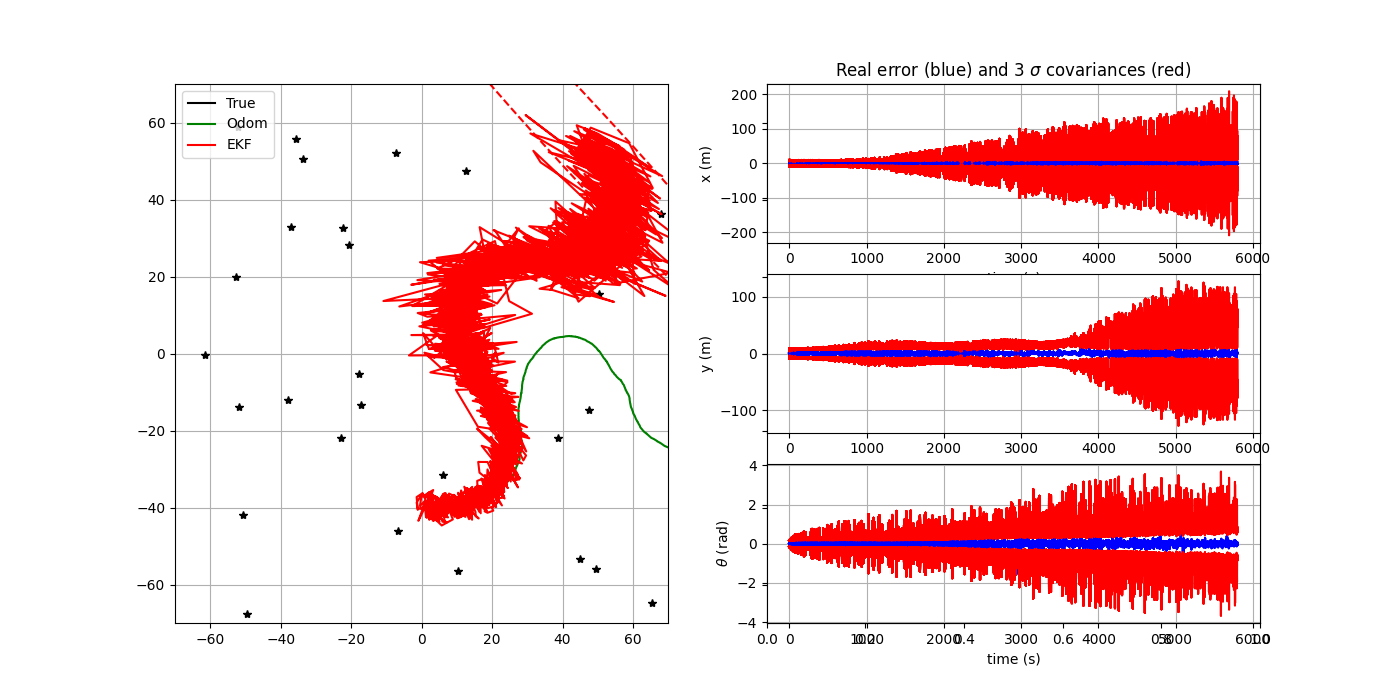
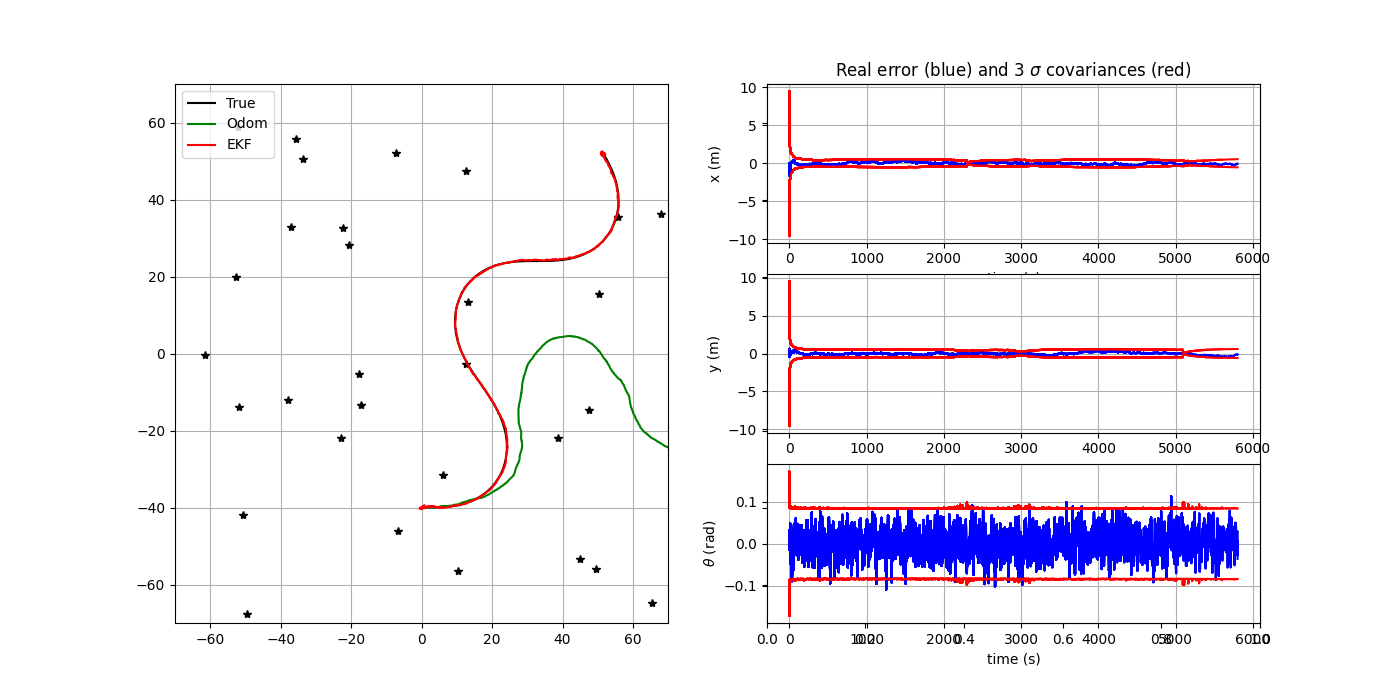
Fixed xPred using now PEst!

diff --git a/EKFLocalization.py b/EKFLocalization.py
@@ -291,9 +291,6 @@ htime = [0]
 # Simulation environment
 simulation = Simulation(Tf, dt_pred, xTrue, QTrue, xOdom, Map, RTrue, dt_meas)
 
-xPred = xEst
-PPred = PEst
-
 # Temporal loop
 for k in range(1, simulation.nSteps):
 
@@ -309,7 +306,7 @@ for k in range(1, simulation.nSteps):
     Gk = G(xEst, u_tilde, dt_pred)
 
     xPred = motion_model(xEst,u_tilde,dt_pred)
-    PPred = Fk @ PPred @ Fk.T + Gk @ QEst @ Gk.T
+    PPred = Fk @ PEst @ Fk.T + Gk @ QEst @ Gk.T
 
     # Get random landmark observation
     [z, iFeature] = simulation.get_observation(k)
